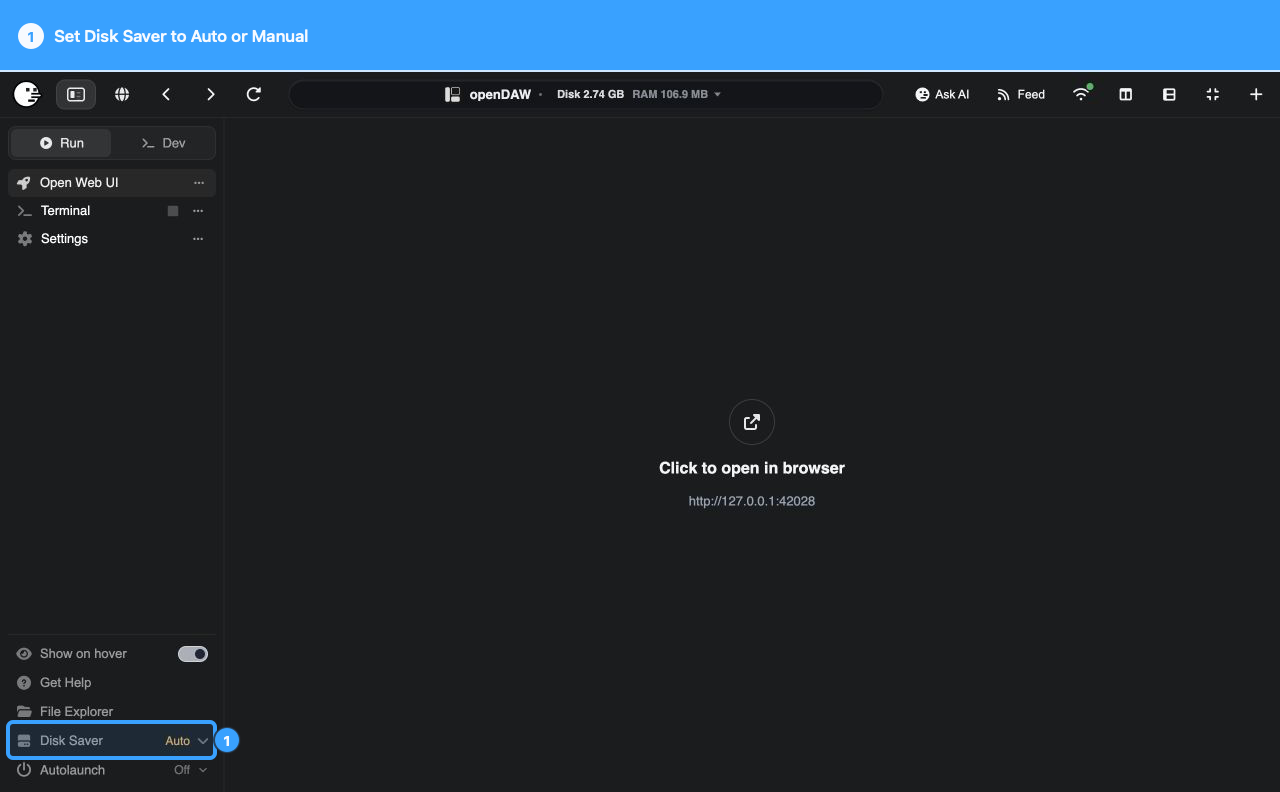
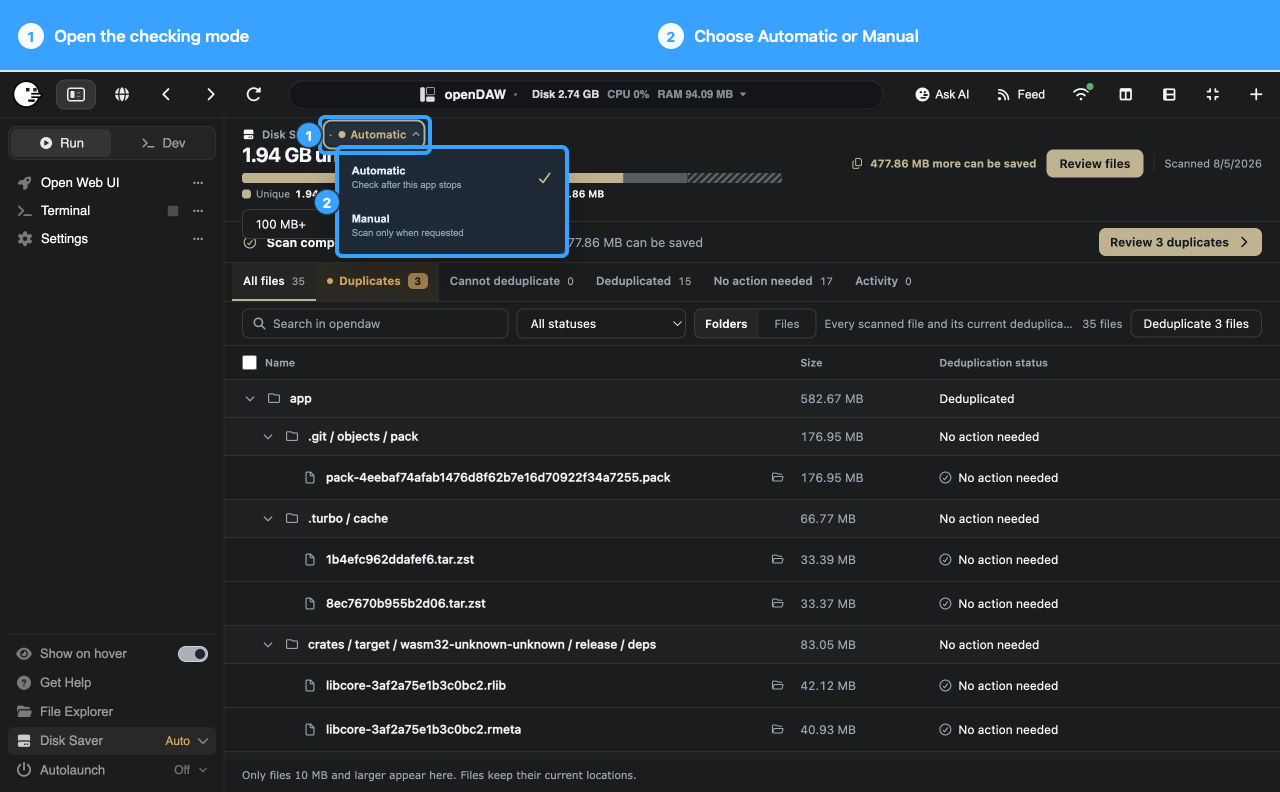
update

diff --git a/README.md b/README.md
@@ -177,7 +177,7 @@ Set an app's Disk Saver control to **Auto** or **Manual**. In Auto mode, Pinokio
 
 If it finds verified duplicates, the control shows **New**. Opening the result clears that indicator. Auto mode never deduplicates by itself. You still review the files and choose the action.
 
-![Annotated app Disk Saver automatic mode control](media/annotated/p81-11-auto-checking-annotated.png)
+![Annotated Automatic and Manual checking menu inside an app's Disk Saver page](media/annotated/p81-11-auto-checking-annotated.png)
 
 - Switch between Auto and Manual, then reopen the app page.
 - In Auto mode, let the app create or download a large duplicate and then stop it.
@@ -185,16 +185,18 @@ If it finds verified duplicates, the control shows **New**. Opening the result c
 - Open the result. **New** should clear.
 - Manual mode should not run the automatic check.
 
-## 12. Review activity and partial failures
+## 12. Review Activity and skipped files
 
-Activity records successful deduplication, separation, and cleanup, including file counts, sizes, and times. It is an audit trail, not an undo button; use **Make separate** to reverse deduplication.
+Activity is a history of completed Disk Saver changes. Each entry shows the action, how many files changed, the size, and the time. Use the search box to find older entries.
 
-![Annotated Disk Saver Activity view](media/annotated/p81-12-activity-annotated.png)
+Activity is not an undo button. Use **Make separate** to reverse deduplication. Skipped files do not appear as successful Activity entries. After a partial scan or action, open the exclusions notice to see which paths were skipped and why.
 
-- Perform one action of each kind and find all three in Activity.
+![Annotated Disk Saver Activity tab, search box, and history entry](media/annotated/p81-12-activity-annotated.png)
+
+- Deduplicate a file, make it separate, and clean up an unused file. Confirm each completed action appears in Activity.
 - Search Activity, leave the page, and come back. The entries should remain.
-- Scan a harmless unreadable test folder. The affected path should be listed.
-- Cancel a long action. Unfinished files should not be reported as successful.
+- Scan a harmless unreadable test folder. The exclusions notice should list the path and reason.
+- Cancel a long action. Unfinished files should not appear as successful Activity entries.
 
 # Powerful use cases
 
